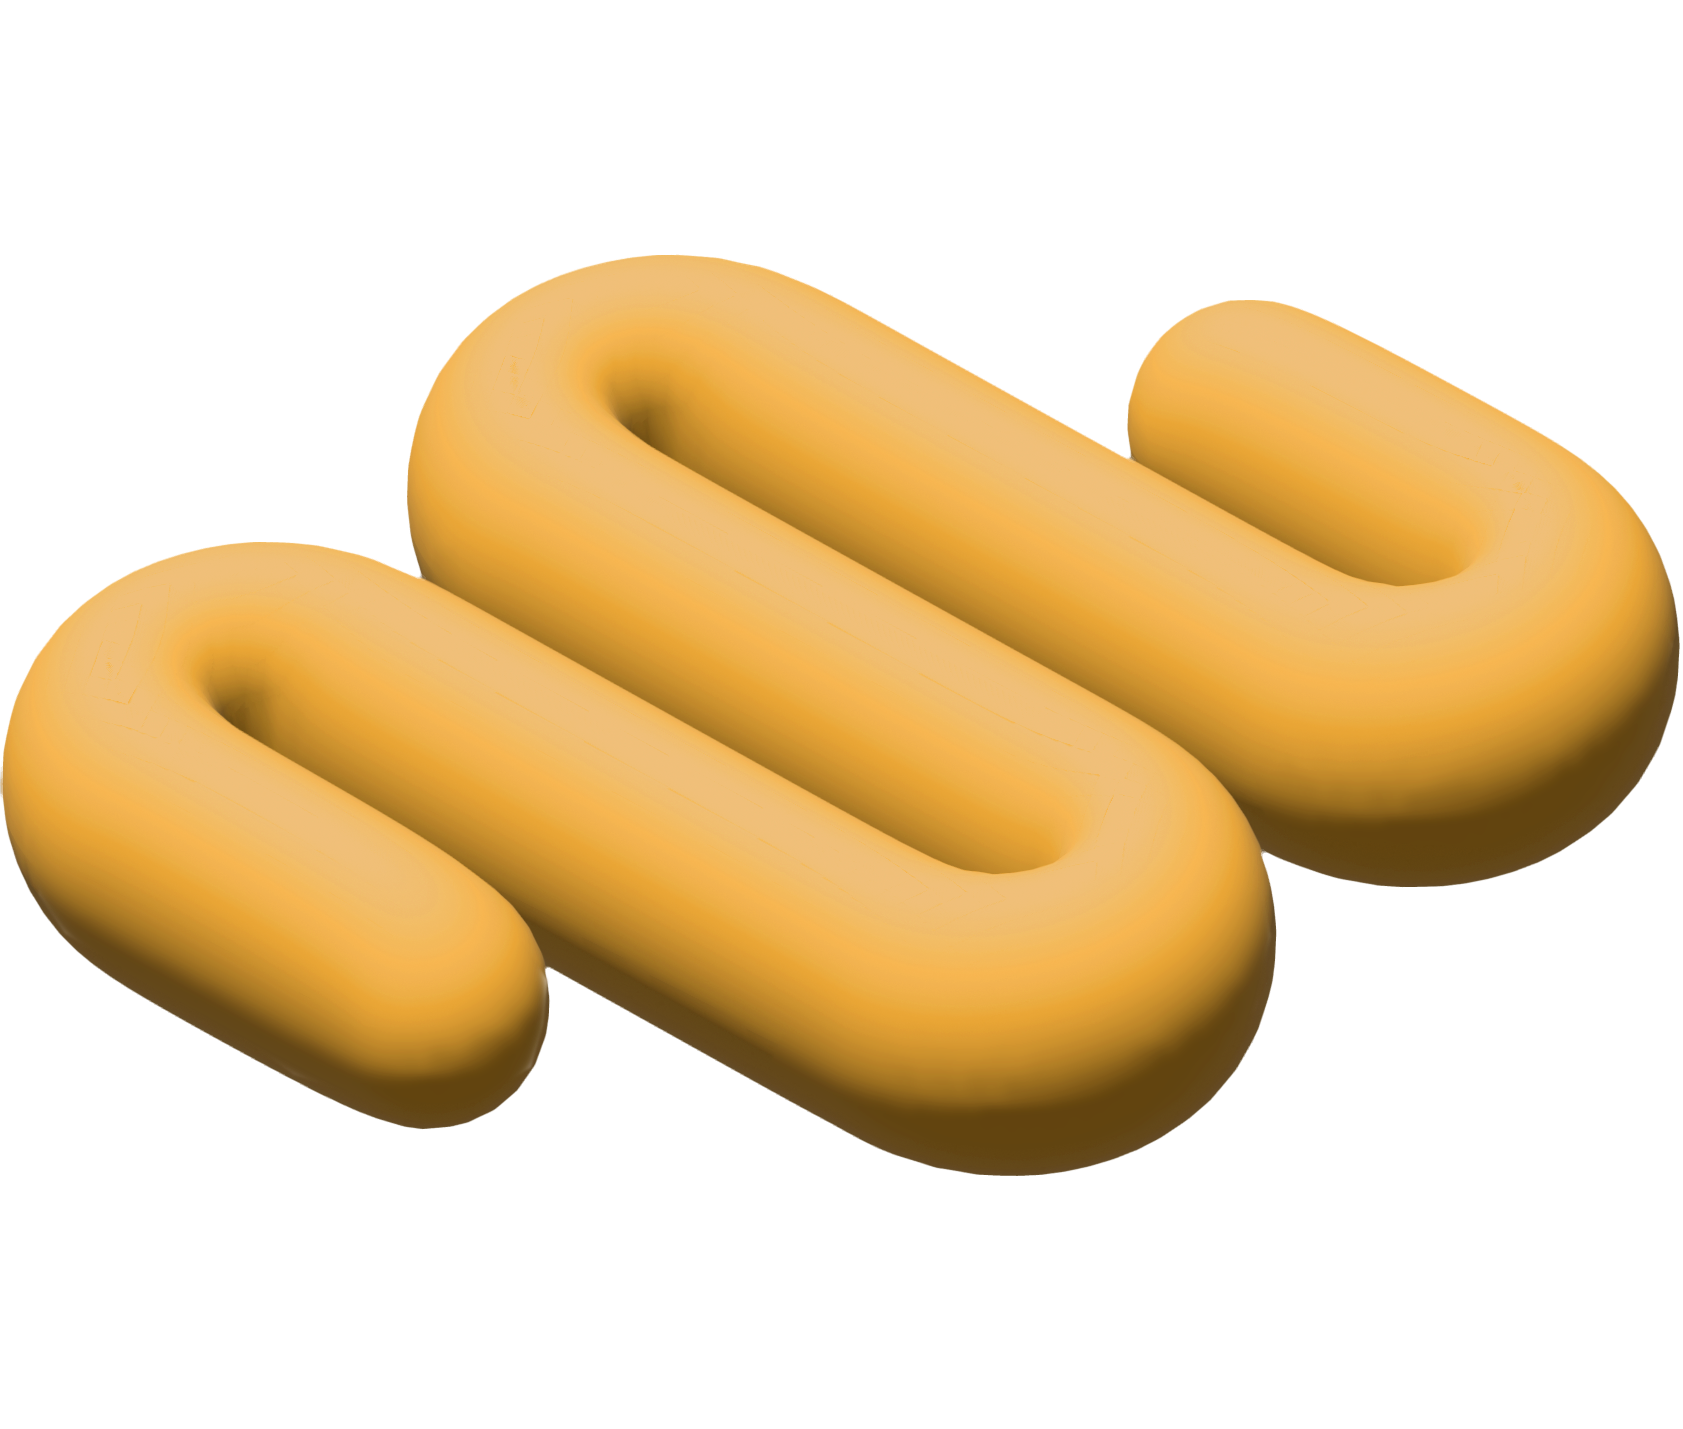
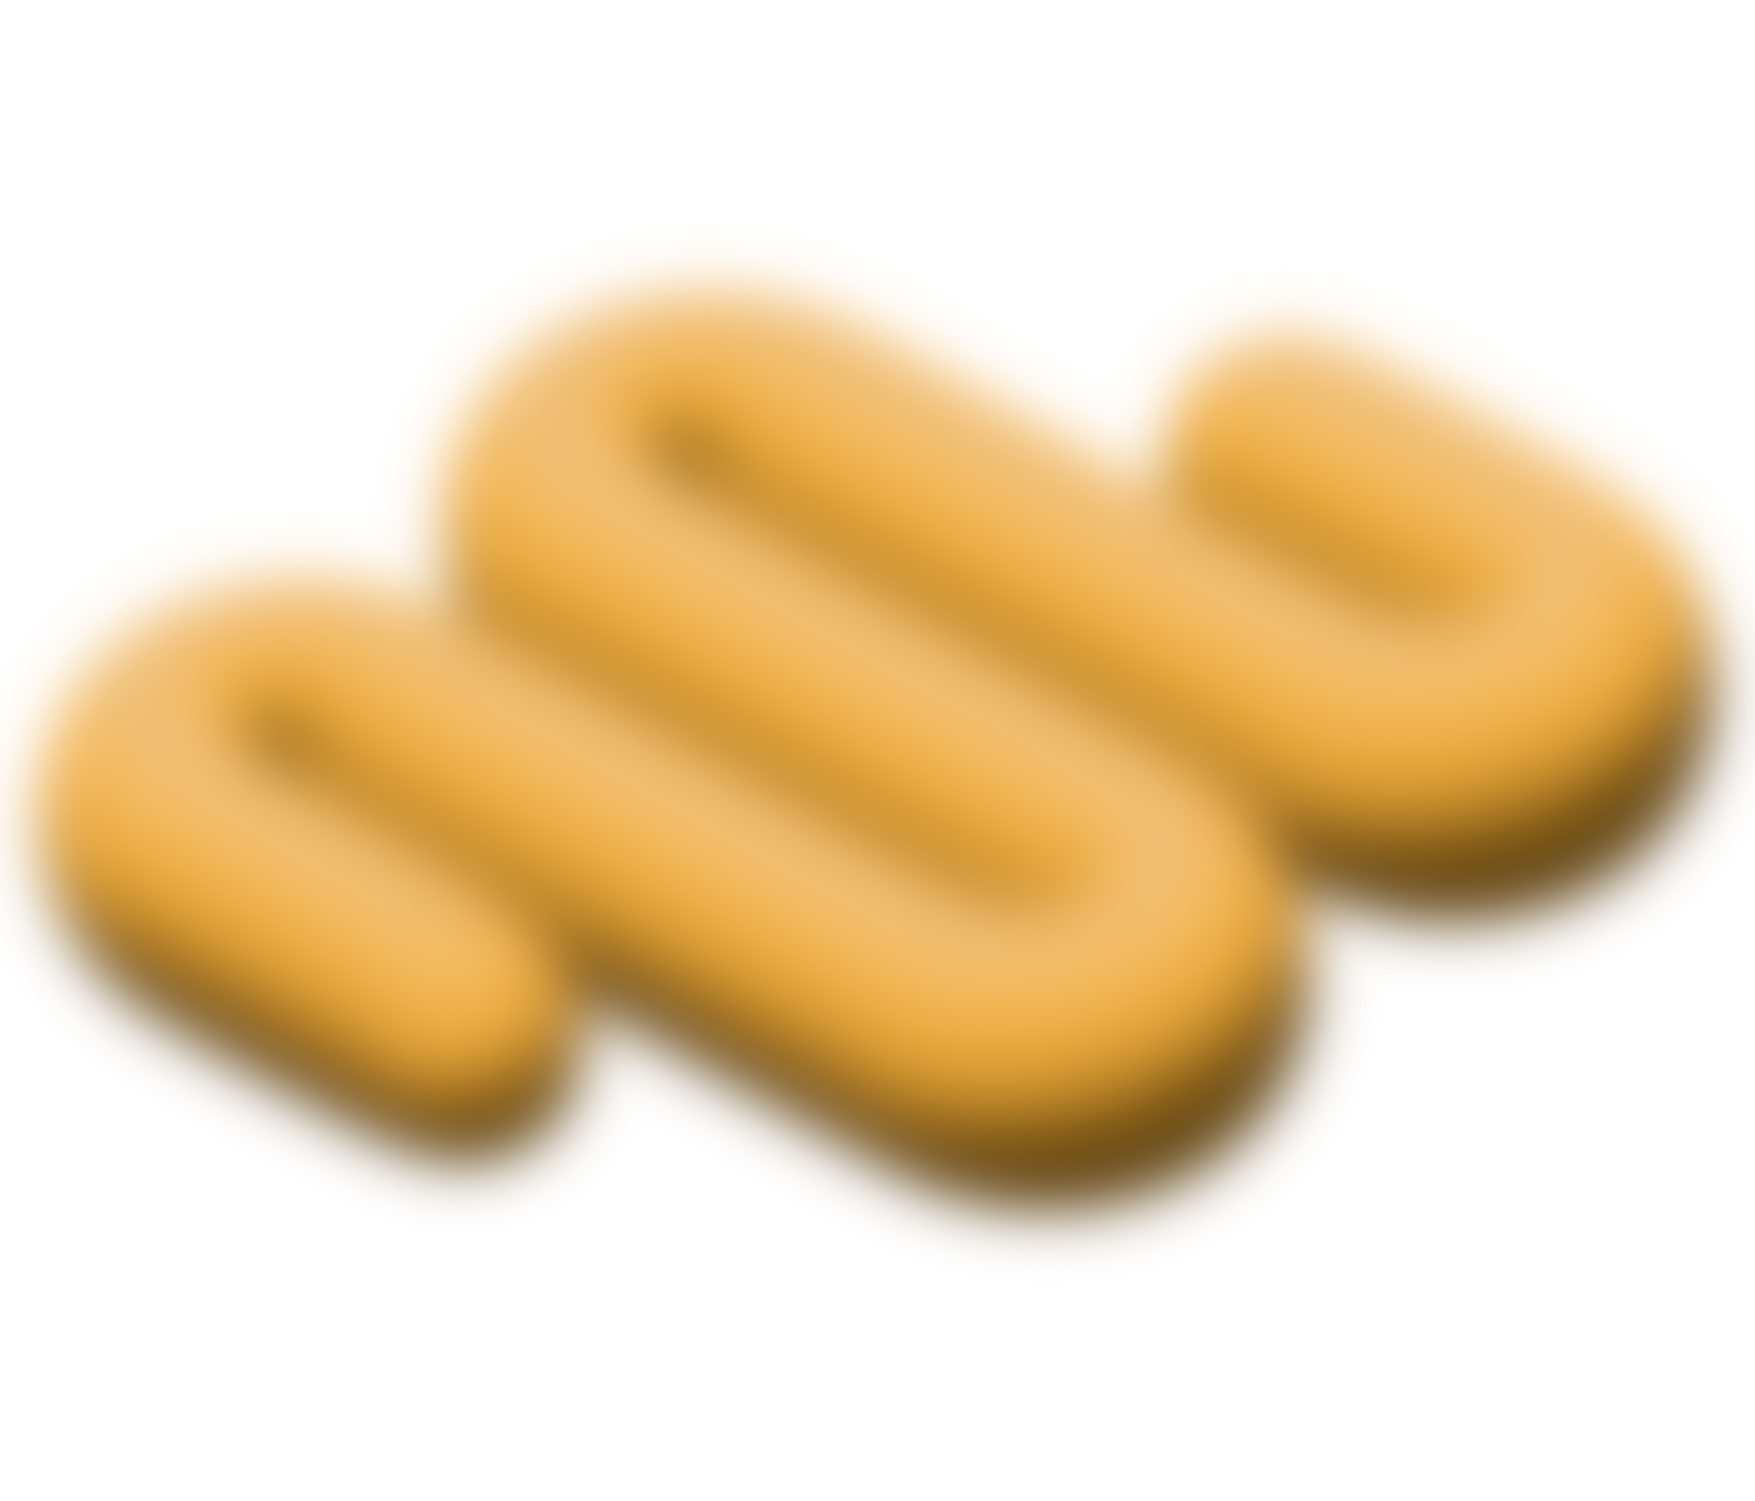
adjusted positioning and added blur to background images

diff --git a/src/components/InputBackground.js b/src/components/InputBackground.js
@@ -9,7 +9,7 @@ const InputBackground = forwardRef((props, ref) => {
       <img
         alt="funny wave"
         src={wave3}
-        className="fixed h-[180px] md:h-[300px] right-[-60px] md:right-[-200px] lg:right-[-50px] 2xl:right-[00px] top-[40px]"
+        className="fixed h-[220px] md:h-[300px] xl:h-[360px] right-[-60px] md:right-[-200px] lg:right-[-50px] 2xl:right-[-100px] top-[40px] xl:top-[50px]"
       />
       <img
         alt="funny wave"
@@ -20,7 +20,7 @@ const InputBackground = forwardRef((props, ref) => {
       <img
         alt="funny wave"
         src={wave2}
-        className="fixed h-[300px] right-[0px] md:right-auto md:left-[200px] xl:left-[400px] 2xl:left-[700px] top-[640px] xl:top-[570px]"
+        className="fixed h-[260px] right-[0px] md:right-auto md:left-[200px] xl:left-[400px] 2xl:left-[700px] top-[670px] xl:top-[570px]"
       />
     </div>
   );

diff --git a/src/components/ResultsBackground.js b/src/components/ResultsBackground.js
@@ -9,7 +9,7 @@ const ResultsBackground = forwardRef((props, ref) => {
       <img
         alt="funny pop"
         src={pop1}
-        className="fixed h-[250px] md:h-[300px] top-[140px] lg:top-[300px] left-[-150px] md:left-[-100px xl:left-[100px]"
+        className="fixed h-[250px] md:h-[300px] top-[140px] lg:top-[300px] left-[-80px] md:left-[-100px xl:left-[100px]"
       />
       <img
         alt="funny pop"
@@ -19,7 +19,7 @@ const ResultsBackground = forwardRef((props, ref) => {
       <img
         alt="funny"
         src={pop3}
-        className="fixed h-[350px] md:h-[500px] top-[620px] right-[-200px] lg:right-[-100px] 2xl:right-[50px] "
+        className="fixed h-[350px] md:h-[500px] xl:h-[700px] top-[550px] right-[-180px] lg:right-[-100px] xl:right-[0px] 2xl:right-[100px] "
       />
     </div>
   );
